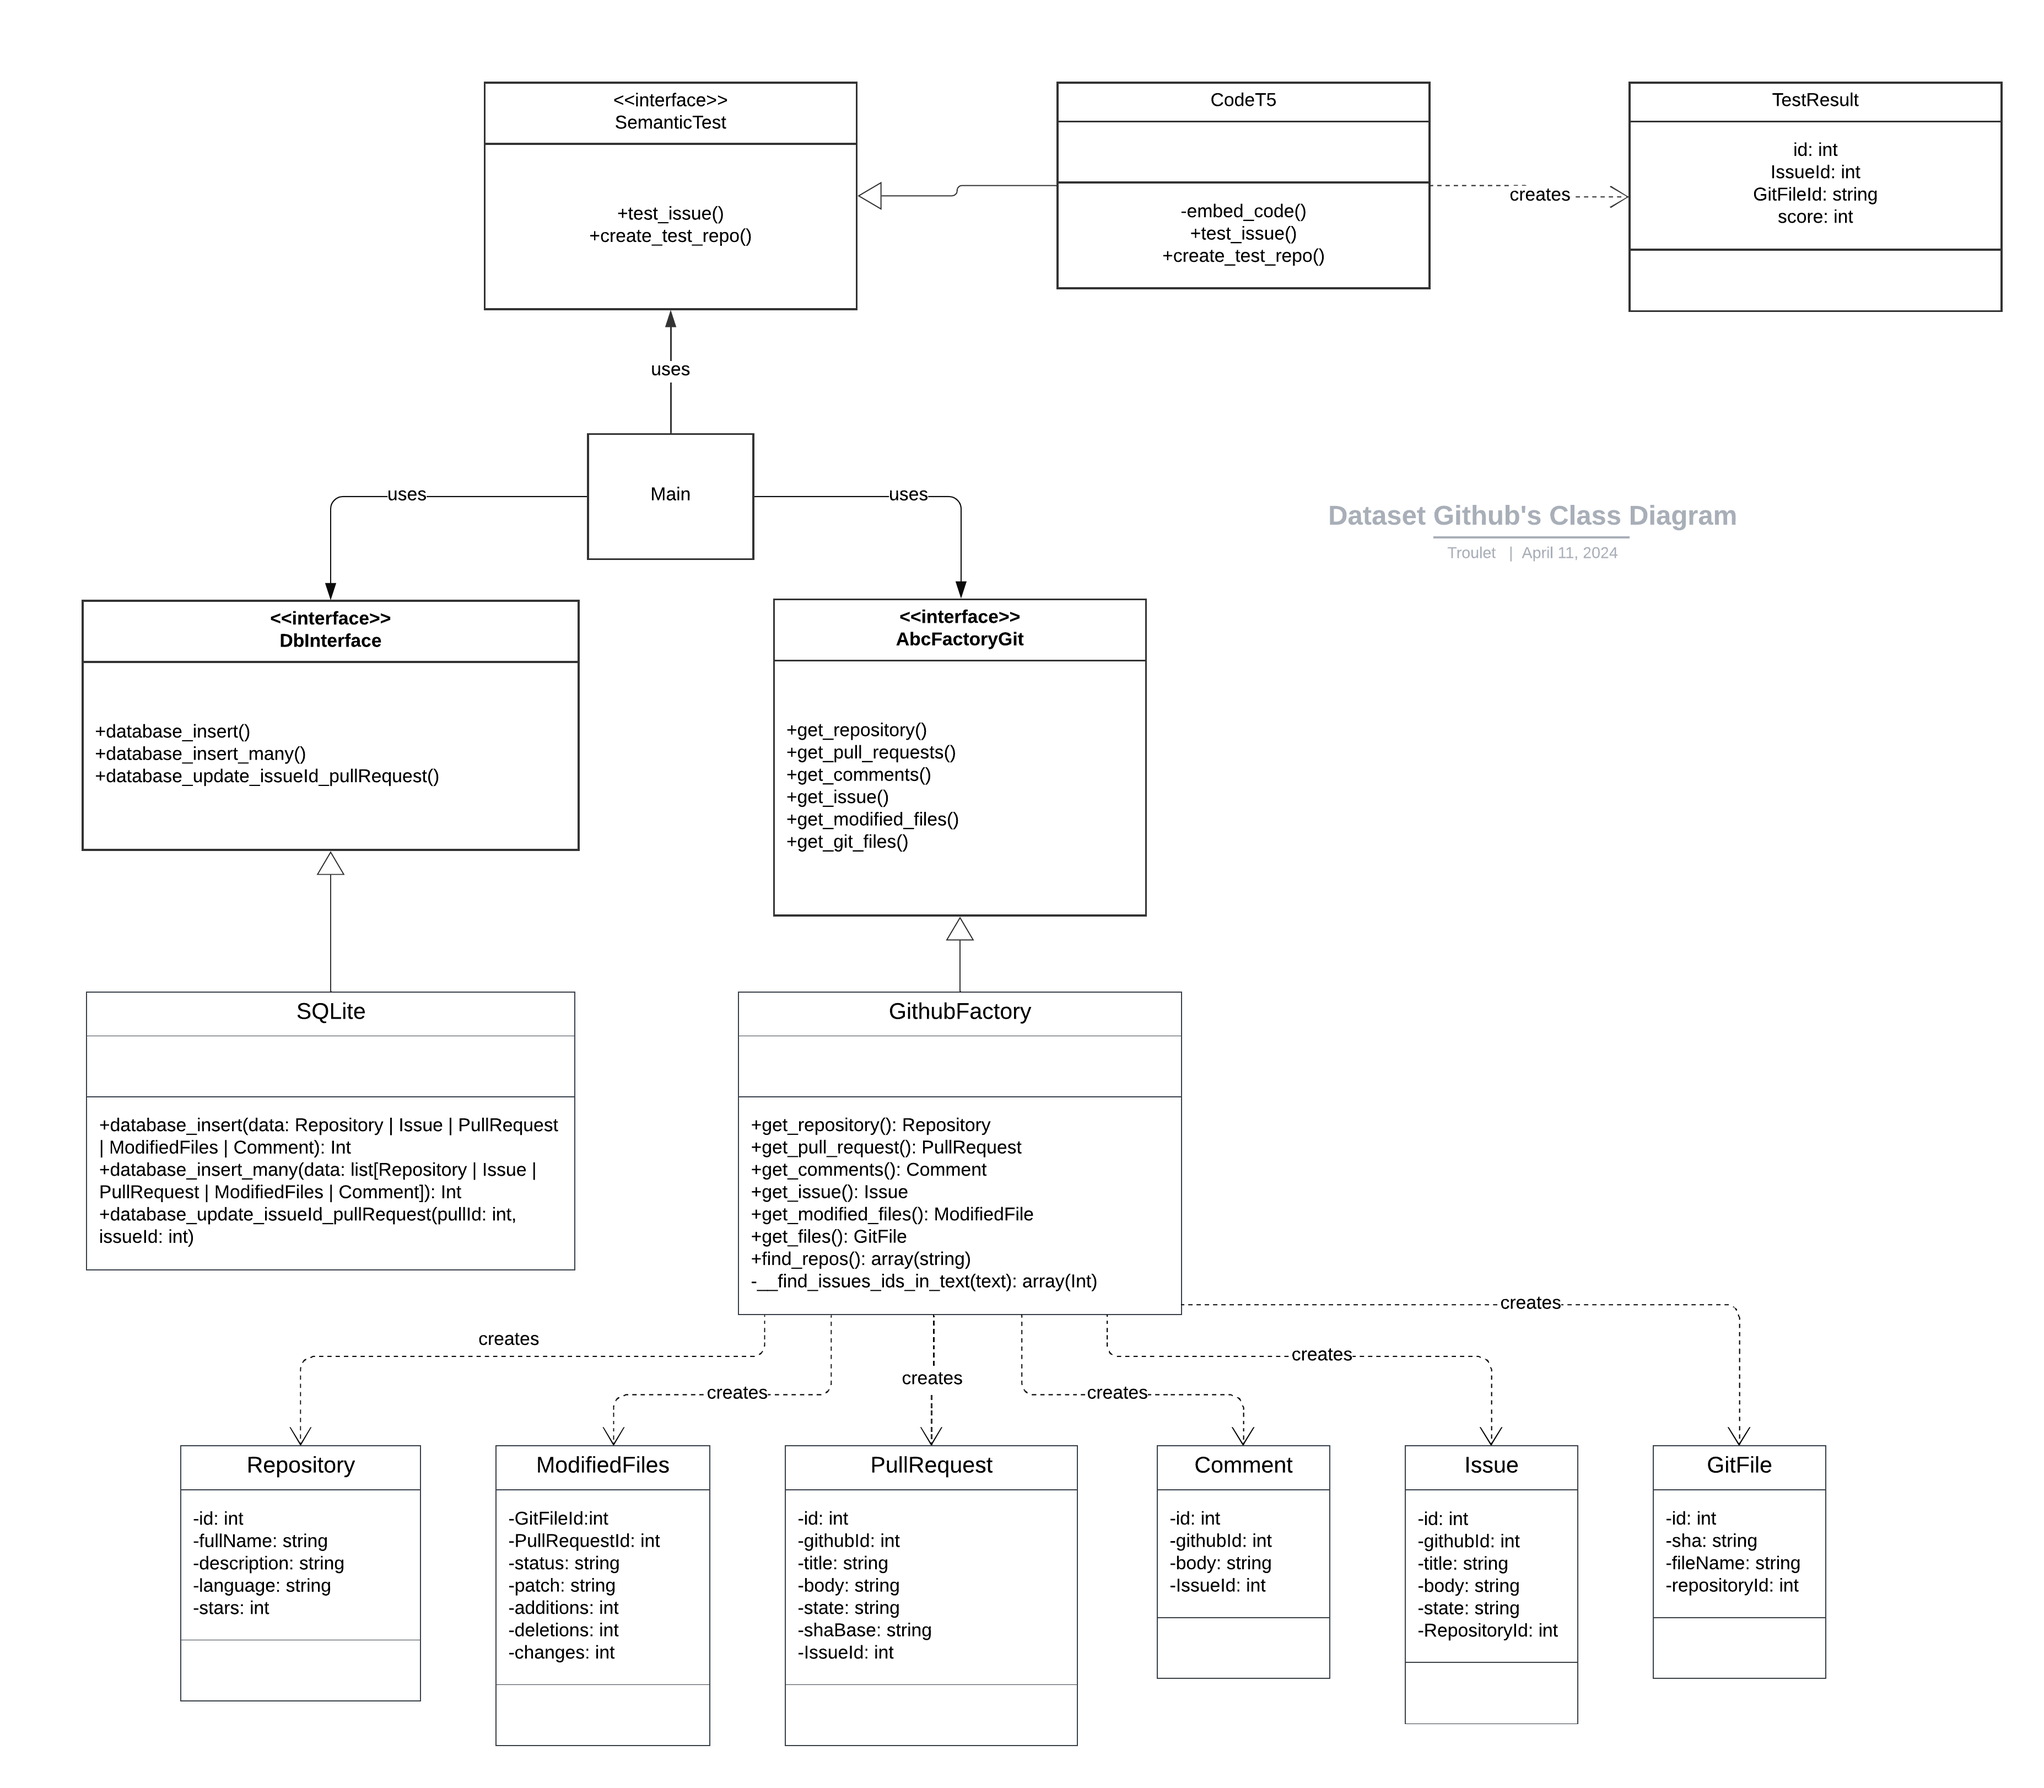
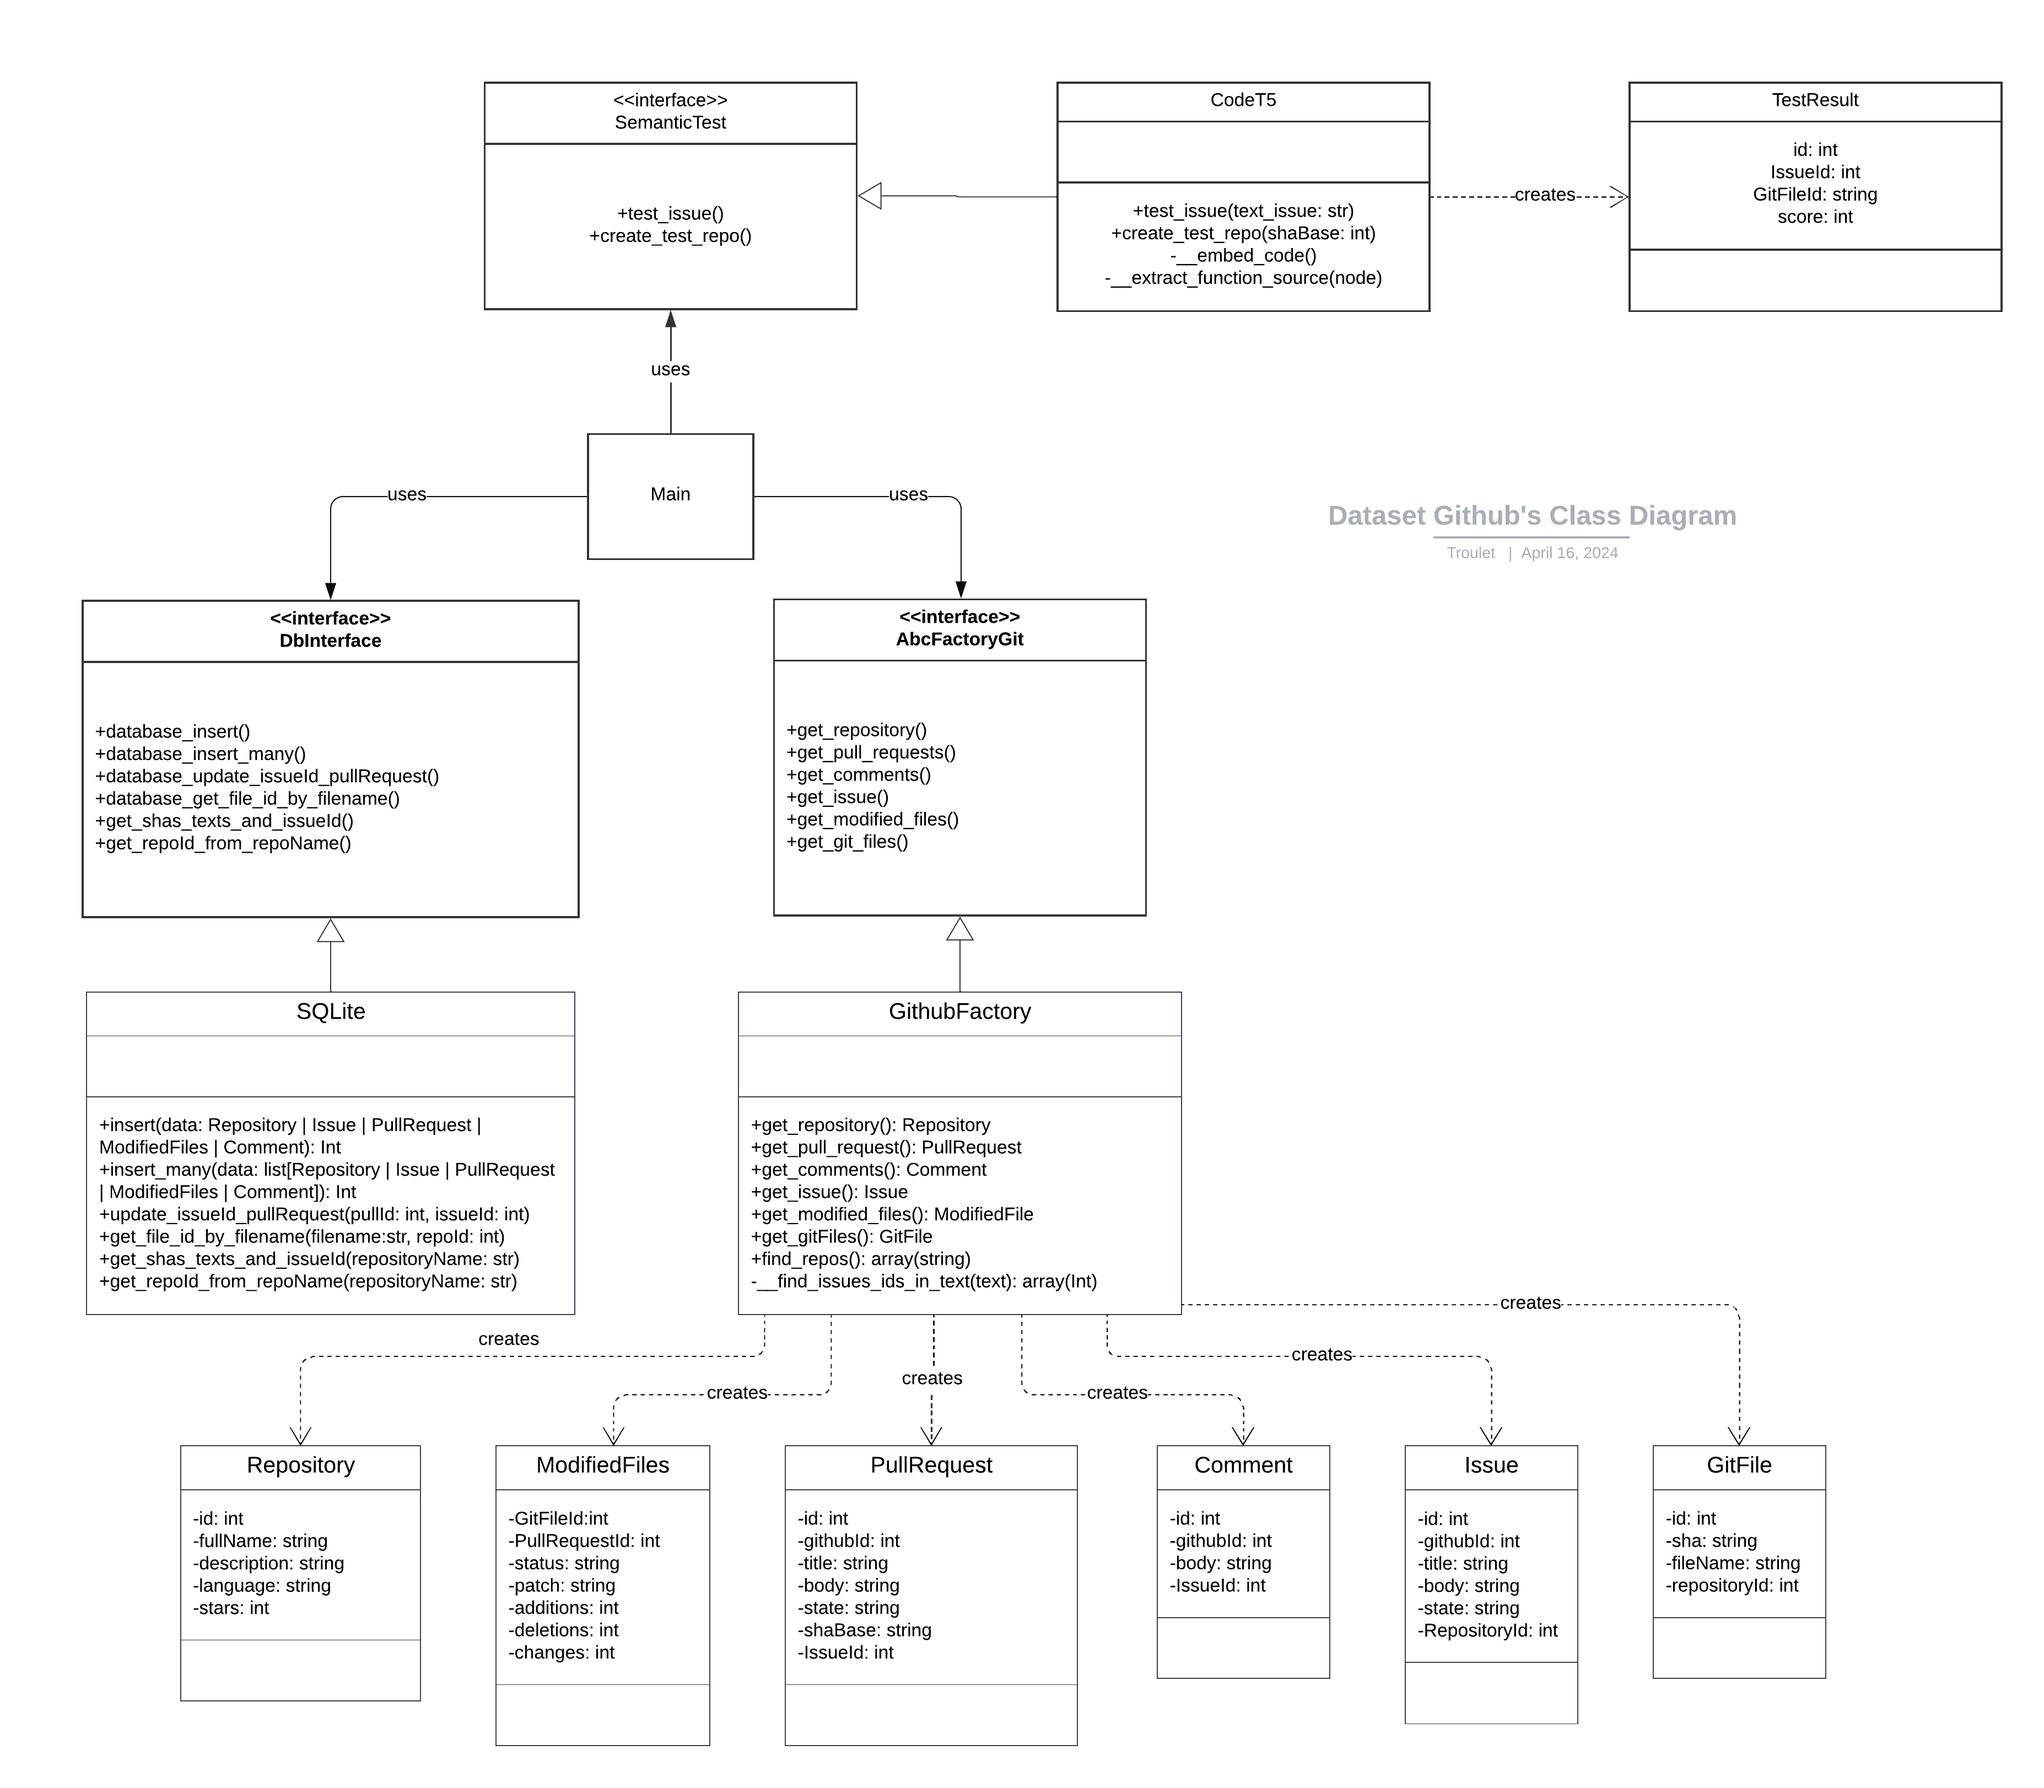
feat: added documentation for CodeT5

diff --git a/interfaces/CodeT5.py b/interfaces/CodeT5.py
@@ -22,6 +22,13 @@ class CodeT5(SemanticTest):
         self.bert = SentenceTransformer('sentence-transformers/all-MiniLM-L6-v2')
     
     def test_issue(self, text_issue):
+        """Finds the file and maximum semantic similarity score for a given issue text.
+        
+        Parameters:
+            text_issue (str): The text of the issue to find the most similar code for.
+        
+        Returns:
+            Tuple[str, float]: The relative file path of the most similar code and the maximum semantic similarity score."""
         text = text_issue
         file = ''
         max_similitude = float('-inf')
@@ -56,9 +63,14 @@ class CodeT5(SemanticTest):
         function_bar2.finish()
         match = re.search(regex_real_file_path, file)
         return match.group(1).replace("\\", "/"), max_similitude.item()
-        # print(f"Le fichier qui match le plus est {match.group(1)} avec une sim cos de {max_similitude}")
     
     def create_test_repo(self, shaBase):
+        """Creates a test repository by cloning the repository specified by `self.repoFullName` and checking out the base commit specified by `shaBase`.
+        
+        If the test repository directory does not exist, it will be created under the `./test` directory. The repository will then be cloned from the specified URL and the base commit will be checked out.
+        
+        Parameters:
+            shaBase (str): The commit hash of the base commit to check out in the test repository."""
         if not os.path.exists(self.path_repos):
             if not os.path.exists("./test"):
                 os.mkdir("./test")
@@ -67,6 +79,9 @@ class CodeT5(SemanticTest):
         os.system(f"cd {self.path_repos} && git checkout {shaBase}")
     
     def __embed_code(self):
+        """Recursively walks through the repository directory and extracts the source code of all Python functions found in the files.
+    
+        The extracted function source code is stored in the `self.functions_sources` list, where each element is a list containing the file path and the function source code."""
         for root, dirs, files in os.walk(self.path_repos):
             for file in files:
                 if file.endswith(".py"):
@@ -87,7 +102,14 @@ class CodeT5(SemanticTest):
                                 file_path,
                                 function
                             ])
-
+    
     def __extract_function_source(self, node):
+        """Extracts the source code of a Python function from an AST node.
+        
+        Args:
+            node (ast.FunctionDef): The AST node representing the function definition.
+        
+        Returns:
+            str: The source code of the function."""
         if isinstance(node, ast.FunctionDef):
             return astunparse.unparse(node)

diff --git a/interfaces/SQLite.py b/interfaces/SQLite.py
@@ -69,9 +69,24 @@ class SQLite(DbInterface):
             return self.missingFileId # Return a dummy value if file not found
     
     def get_shas_texts_and_issueId(self, repositoryName: str):
+        """Retrieves the title, body, base SHA, and issue ID for pull requests associated with a given repository.
+    
+        Parameters:
+            repositoryName (str): The name of the repository to retrieve data for.
+        
+        Returns:
+            list[tuple[str, str, str, int]]: A list of tuples containing the pull request title, body, base SHA, and issue ID."""
         stmt = select(Issue.title, Issue.body, PullRequest.shaBase, Issue.id).where(PullRequest.issueId == Issue.id).where(Issue.repositoryId == self.get_repoId_from_repoName(repositoryName))
         return(self.session.execute(stmt).fetchall())
     
+    
     def get_repoId_from_repoName(self, repositoryName: str):
+        """Retrieves the database ID of a repository by its full name.
+    
+        Parameters:
+            repositoryName (str): The full name of the repository to retrieve the ID for.
+        
+        Returns:
+            int: The database ID of the repository."""
         stmt = select(Repository.id).where(Repository.fullName == repositoryName)
         return(self.session.execute(stmt).fetchone()[0])

diff --git a/main.py b/main.py
@@ -100,7 +100,7 @@ def get_data_repo(repository_name):
     
     j = -1
     sqlite.insert(githubFactory.get_repository(repository_name))
-    sqlite.insert_many(list(githubFactory.get_gitFile()))
+    sqlite.insert_many(list(githubFactory.get_gitFiles()))
     
     pullList, pulls, issueNumbers = githubFactory.get_pull_requests()
     bar = IncrementalBar("Fetching data", max = len(issueNumbers))

diff --git a/interfaces/GithubFactory.py b/interfaces/GithubFactory.py
@@ -150,7 +150,7 @@ class GithubFactory(AbcFactoryGit):
                 issueId = issueId
             )
     
-    def get_gitFile(self):
+    def get_gitFiles(self):
         """Recursively fetches all files in the repository, yielding a GitFile object for each file.
         
         The method uses a PixelSpinner to provide visual feedback while fetching the files.

diff --git a/interfaces/AbcFactoryGit.py b/interfaces/AbcFactoryGit.py
@@ -23,5 +23,5 @@ class AbcFactoryGit(ABC):
         raise NotImplementedError()
     
     @abstractmethod
-    def get_gitFile(self):
+    def get_gitFiles(self):
         raise NotImplementedError()
